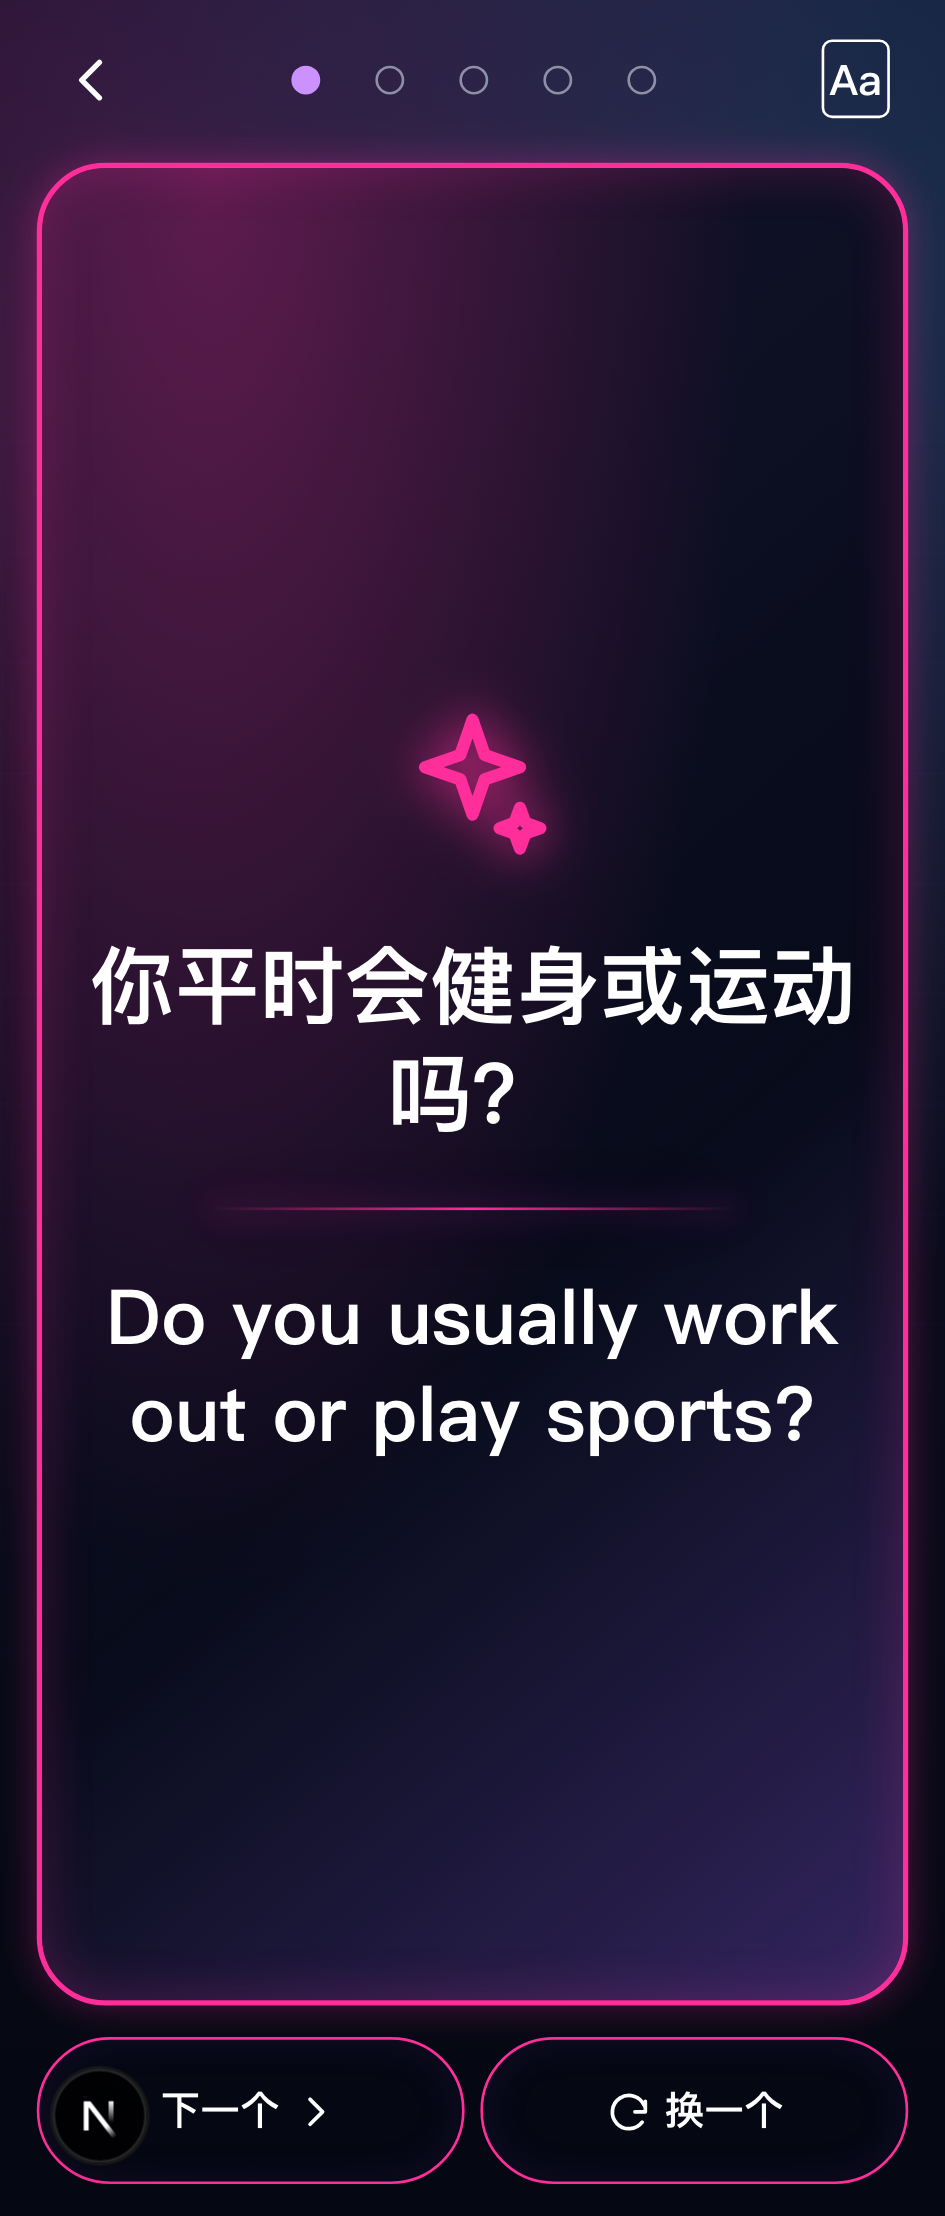
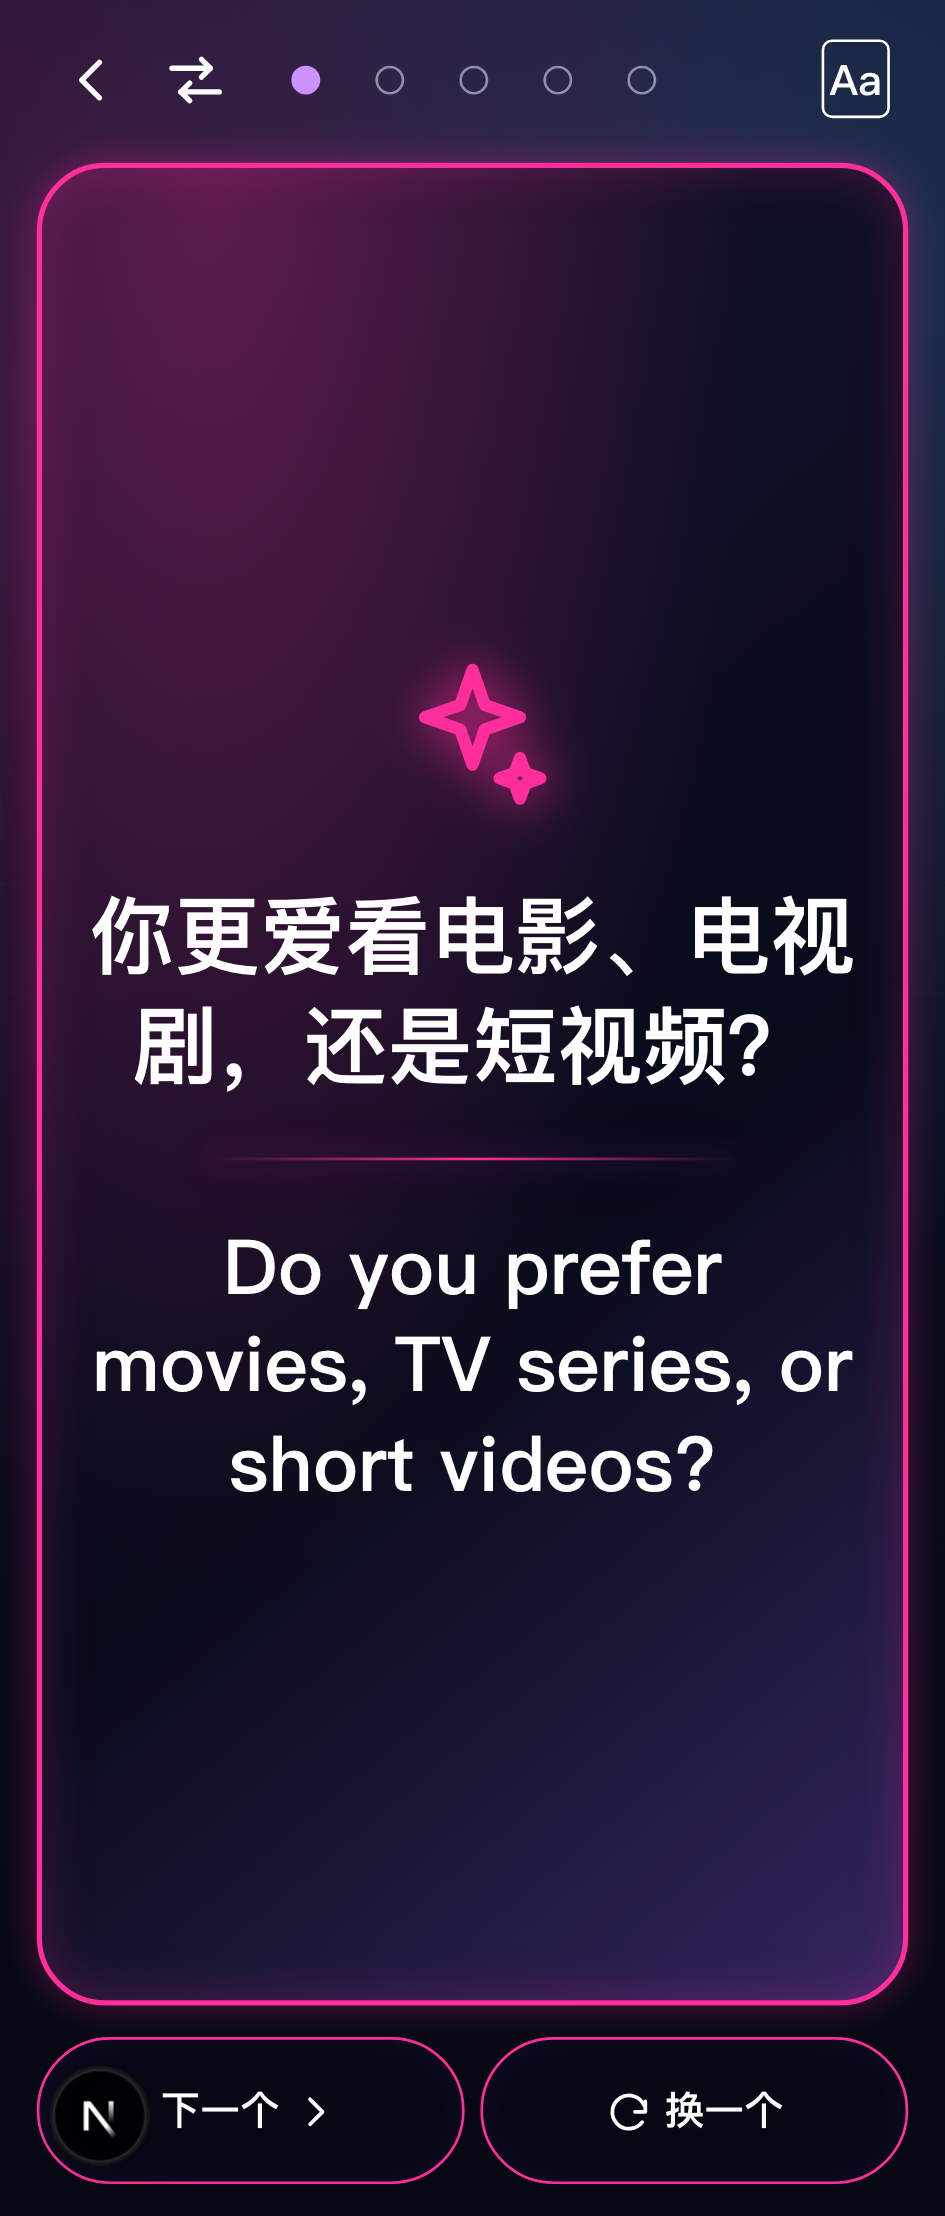
feat(punishment): 真心话⇄大冒险一键互切，并补齐一男一女大冒险去「站起来」
- 两个玩法页顶栏新增 ⇄ 双向箭头按钮，一键切到对面玩法、不回首页；各自记住自己的档位
- 顶栏改为左右等宽分组，保证五小圆点居中；新增 swap 图标
- 一男一女大冒险 L2 共 9 条与 L1-010 台词去掉「站起来」，保留 3 条鞠躬类
- 补充互切 e2e 用例并重跑截图基线

Changed region(s): [[0.0921, 0.2802, 0.9206, 0.5293], [0.0921, 0.5605, 0.8899, 0.685], [0.1841, 0.0311, 0.2148, 0.0623]]

diff --git a/content/punishment/couple.ts b/content/punishment/couple.ts
@@ -11,7 +11,7 @@ export const challenges: Challenge[] = [
     { id: "DA-DUO-L1-007", level: 1, zh: "大声说：“我宣布，今晚最需要被照顾的人是我！”", en: "Shout, “I hereby declare: I’m the one who needs the most looking after tonight!”", contentTags: [], timerSeconds: null },
     { id: "DA-DUO-L1-008", level: 1, zh: "大声说：“我不是菜，我是在给大家面子！”", en: "Shout, “I’m not bad at this—I’m just making everyone else look good!”", contentTags: [], timerSeconds: null },
     { id: "DA-DUO-L1-009", level: 1, zh: "大声说：“输的是我，气势不能输！”", en: "Shout, “I may have lost, but I’m not losing the swagger!”", contentTags: [], timerSeconds: null },
-    { id: "DA-DUO-L1-010", level: 1, zh: "大声说：“下一把再输，我还敢站起来！”", en: "Shout, “If I lose the next round too, I’ll still stand up and own it!”", contentTags: [], timerSeconds: null },
+    { id: "DA-DUO-L1-010", level: 1, zh: "大声说：“下一把再输，我还敢再来！”", en: "Shout, “If I lose the next round too, I’ll still go again!”", contentTags: [], timerSeconds: null },
     { id: "DA-DUO-L1-011", level: 1, zh: "对对方举杯，大声说：“以后罩着我！”然后自己喝一小口。", en: "Raise your glass to your opponent, and shout, “You’ve got my back from now on!” Then take a small sip.", contentTags: [], timerSeconds: null },
     { id: "DA-DUO-L1-012", level: 1, zh: "面对对方认真鞠躬 3 次，每次都说：“服了。”", en: "Face your opponent, bow three times, and say “You got me” each time.", contentTags: [], timerSeconds: null },
     { id: "DA-DUO-L1-013", level: 1, zh: "面对对方双手抱拳，大声说：“好汉饶命！”", en: "Face your opponent, clasp your hands, and shout, “Have mercy!”", contentTags: [], timerSeconds: null },
@@ -44,7 +44,7 @@ export const challenges: Challenge[] = [
     { id: "DA-DUO-L1-040", level: 1, zh: "先向左边点头，再向右边点头，说：“谢谢各位见证。”", en: "Nod once to the left and once to the right, and say, “Thanks, everyone, for witnessing this.”", contentTags: [], timerSeconds: null },
     { id: "DA-DUO-L1-041", level: 1, zh: "双手抱拳，朝对方说：“好汉，手下留情。”", en: "Clasp your hands toward your opponent, and say, “Have mercy on me.”", contentTags: [], timerSeconds: null },
     { id: "DA-DUO-L2-001", level: 2, zh: "对方端着你的杯子喂你喝一小口。", en: "Your opponent holds your glass and feeds you a small sip.", contentTags: [], timerSeconds: null },
-    { id: "DA-DUO-L2-002", level: 2, zh: "你站起来举杯，大声说：“以后罩着我！”对方和你碰杯，只有你喝一小口。", en: "Stand up with your glass and shout, “You’ve got my back from now on!” Clink glasses with your opponent; only you take a small sip.", contentTags: [], timerSeconds: null },
+    { id: "DA-DUO-L2-002", level: 2, zh: "你举杯，大声说：“以后罩着我！”对方和你碰杯，只有你喝一小口。", en: "Raise your glass and shout, “You’ve got my back from now on!” Clink glasses with your opponent; only you take a small sip.", contentTags: [], timerSeconds: null },
     { id: "DA-DUO-L2-003", level: 2, zh: "和对方击掌 3 次；你大声说：“这轮算你狠。”", en: "High-five your opponent three times, then shout, “You got me this round.”", contentTags: [], timerSeconds: null },
     { id: "DA-DUO-L2-004", level: 2, zh: "挽住对方的大臂，自己喝一小口。", en: "Hold onto your opponent’s upper arm and take a small sip.", contentTags: [], timerSeconds: null },
     { id: "DA-DUO-L2-005", level: 2, zh: "把一只手搭在对方肩膀上，自己喝一小口。", en: "Put one hand on your opponent’s shoulder and take a small sip.", contentTags: [], timerSeconds: null },
@@ -52,20 +52,20 @@ export const challenges: Challenge[] = [
     { id: "DA-DUO-L2-007", level: 2, zh: "和对方握手 3 秒，再自己喝一小口。", en: "Shake hands with your opponent for 3 seconds, then take a small sip.", contentTags: [], timerSeconds: 3 },
     { id: "DA-DUO-L2-008", level: 2, zh: "和对方击掌 3 次；你最后说：“下一轮再来。”", en: "High-five your opponent three times, then say, “Next round.”", contentTags: [], timerSeconds: null },
     { id: "DA-DUO-L2-009", level: 2, zh: "轻拍对方肩膀 3 下；你说：“下一轮等着。”", en: "Lightly pat your opponent’s shoulder three times and say, “Just wait till next round.”", contentTags: [], timerSeconds: null },
-    { id: "DA-DUO-L2-010", level: 2, zh: "你和对方一起举杯；你站起来大声说：“今晚你别装！”然后只有你喝一小口。", en: "Raise your glasses together. Stand up and shout, “No pretending tonight!” Then only you take a small sip.", contentTags: [], timerSeconds: null },
-    { id: "DA-DUO-L2-011", level: 2, zh: "你和对方一起举杯；你站起来大声说：“下一把轻点！”然后只有你喝一小口。", en: "Raise your glasses together. Stand up and shout, “Go easy on me next round!” Then only you take a small sip.", contentTags: [], timerSeconds: null },
+    { id: "DA-DUO-L2-010", level: 2, zh: "你和对方一起举杯；你大声说：“今晚你别装！”然后只有你喝一小口。", en: "Raise your glasses together and shout, “No pretending tonight!” Then only you take a small sip.", contentTags: [], timerSeconds: null },
+    { id: "DA-DUO-L2-011", level: 2, zh: "你和对方一起举杯；你大声说：“下一把轻点！”然后只有你喝一小口。", en: "Raise your glasses together and shout, “Go easy on me next round!” Then only you take a small sip.", contentTags: [], timerSeconds: null },
     { id: "DA-DUO-L2-012", level: 2, zh: "你和对方一起举杯；你大声说：“今天我先认罚！”然后只有你喝一小口。", en: "Raise your glasses together. Shout, “I’ll take the penalty this round!” Then only you take a small sip.", contentTags: [], timerSeconds: null },
     { id: "DA-DUO-L2-013", level: 2, zh: "你和对方一起举杯；你大声说：“这轮你赢了！”然后只有你喝一小口。", en: "Raise your glasses together. Shout, “You win this round!” Then only you take a small sip.", contentTags: [], timerSeconds: null },
     { id: "DA-DUO-L2-014", level: 2, zh: "你和对方一起举杯；你大声说：“下一轮继续收拾我！”然后只有你喝一小口。", en: "Raise your glasses together. Shout, “Come at me again next round!” Then only you take a small sip.", contentTags: [], timerSeconds: null },
     { id: "DA-DUO-L2-015", level: 2, zh: "你和对方一起举杯；你大声说：“我先给你助个兴！”然后只有你喝一小口。", en: "Raise your glasses together. Shout, “I’ll get the party going for you!” Then only you take a small sip.", contentTags: [], timerSeconds: null },
-    { id: "DA-DUO-L2-016", level: 2, zh: "对方向你竖大拇指，你站起来说：“这点面子我收下了！”", en: "Your opponent gives you a thumbs-up. Stand up and say, “I’ll take the support!”", contentTags: [], timerSeconds: null },
+    { id: "DA-DUO-L2-016", level: 2, zh: "对方向你竖大拇指，你说：“这点面子我收下了！”", en: "Your opponent gives you a thumbs-up, and you say, “I’ll take the support!”", contentTags: [], timerSeconds: null },
     { id: "DA-DUO-L2-017", level: 2, zh: "和对方碰拳一次，最后大声说：“下一轮见。”", en: "Fist-bump your opponent once, then shout, “See you next round!”", contentTags: [], timerSeconds: null },
     { id: "DA-DUO-L2-018", level: 2, zh: "和对方轻碰一次杯，最后自己喝一小口。", en: "Clink glasses lightly with your opponent once, then take a small sip.", contentTags: [], timerSeconds: null },
-    { id: "DA-DUO-L2-019", level: 2, zh: "对方指向你，你站起来大声说：“没错，输家就是我！”", en: "Your opponent points at you. Stand up and shout, “Yep, I’m the loser!”", contentTags: [], timerSeconds: null },
-    { id: "DA-DUO-L2-020", level: 2, zh: "你和对方一起举杯，你站起来说：“今晚我最需要被照顾！”", en: "Raise your glasses together. Stand up and say, “I’m the one who needs the most looking after tonight!”", contentTags: [], timerSeconds: null },
-    { id: "DA-DUO-L2-021", level: 2, zh: "对方拍桌一下，你站起来说：“我接受现实！”", en: "Your opponent taps the table once. Stand up and say, “I accept reality!”", contentTags: [], timerSeconds: null },
-    { id: "DA-DUO-L2-022", level: 2, zh: "对方向你竖大拇指，你站起来说：“这点安慰我收下了！”", en: "Your opponent gives you a thumbs-up. Stand up and say, “I’ll take the consolation!”", contentTags: [], timerSeconds: null },
-    { id: "DA-DUO-L2-023", level: 2, zh: "你和对方碰杯一次，你站起来说：“输归输，继续玩！”", en: "Clink glasses with your opponent once. Stand up and say, “I lost, but we keep playing!”", contentTags: [], timerSeconds: null },
+    { id: "DA-DUO-L2-019", level: 2, zh: "对方指向你，你大声说：“没错，输家就是我！”", en: "Your opponent points at you, and you shout, “Yep, I’m the loser!”", contentTags: [], timerSeconds: null },
+    { id: "DA-DUO-L2-020", level: 2, zh: "你和对方一起举杯，你说：“今晚我最需要被照顾！”", en: "Raise your glasses together and say, “I’m the one who needs the most looking after tonight!”", contentTags: [], timerSeconds: null },
+    { id: "DA-DUO-L2-021", level: 2, zh: "对方拍桌一下，你说：“我接受现实！”", en: "Your opponent taps the table once, and you say, “I accept reality!”", contentTags: [], timerSeconds: null },
+    { id: "DA-DUO-L2-022", level: 2, zh: "对方向你竖大拇指，你说：“这点安慰我收下了！”", en: "Your opponent gives you a thumbs-up, and you say, “I’ll take the consolation!”", contentTags: [], timerSeconds: null },
+    { id: "DA-DUO-L2-023", level: 2, zh: "你和对方碰杯一次，你说：“输归输，继续玩！”", en: "Clink glasses with your opponent once, and you say, “I lost, but we keep playing!”", contentTags: [], timerSeconds: null },
     { id: "DA-DUO-L3-001", level: 3, zh: "你和对方肩膀贴肩膀坐着，勾住小拇指，转头对视 10 秒，同时说：“你今晚还挺顺眼。”", en: "Sit shoulder-to-shoulder, hook pinkies, turn to face each other, and hold eye contact for 10 seconds while both saying, “You look pretty good tonight.”", contentTags: [], timerSeconds: 10 },
     { id: "DA-DUO-L3-002", level: 3, zh: "用双手给对方一侧上臂按摩 30 秒。", en: "Massage one of their upper arms with both hands for 30 seconds.", contentTags: [], timerSeconds: 30 },
     { id: "DA-DUO-L3-003", level: 3, zh: "面对面帮对方整理衣领 10 秒。", en: "Face them and straighten their collar for 10 seconds.", contentTags: [], timerSeconds: 10 },

diff --git a/app/punishment/play/page.tsx b/app/punishment/play/page.tsx
@@ -1,6 +1,7 @@
 "use client";
 
 import { useEffect, useMemo, useRef, useState } from "react";
+import { useRouter } from "next/navigation";
 import { NeonBackground } from "@/components/brand/NeonBackground";
 import { Button } from "@/components/ui/Button";
 import { Icon } from "@/components/ui/Icon";
@@ -25,6 +26,7 @@ import { play, unlockAudio } from "@/lib/audio";
 import { vibrate } from "@/lib/haptics";
 
 export default function PunishmentPlay() {
+  const router = useRouter();
   const { preferences, update, ready } = usePreferences();
   const cards = useMemo(() => loadChallenges(preferences.bank === "couple" ? coupleChallenges : normalChallenges), [preferences.bank]);
   const [session, setSession] = useState(newSession);
@@ -121,11 +123,16 @@ export default function PunishmentPlay() {
     <NeonBackground className="punishment-bg">
       <main className="punishment-screen">
         <header className="punishment-header">
-          <button aria-label="设置与盾牌" onClick={() => setSheet("settings")}><Icon name="settings" /></button>
+          <div className="punishment-header-side">
+            <button aria-label="设置与盾牌" onClick={() => setSheet("settings")}><Icon name="settings" /></button>
+            <button aria-label="切换到真心话" onClick={() => router.push("/truth/play")}><Icon name="swap" /></button>
+          </div>
           <LevelDots level={session.selectedLevel} onChange={selectedLevel => setSession(session =>
             session.currentCardId ? { ...session, selectedLevel } : drawCard({ ...session, selectedLevel }, cards, preferences.disabledTags)
           )} />
-          <button aria-label="切换语言" onClick={() => setSheet("language")}><span>Aa</span></button>
+          <div className="punishment-header-side is-end">
+            <button aria-label="切换语言" onClick={() => setSheet("language")}><span>Aa</span></button>
+          </div>
         </header>
 
         {card ? (

diff --git a/app/globals.css b/app/globals.css
@@ -825,6 +825,12 @@ textarea {
 .punishment-header > button { background: transparent; color: var(--color-text-primary); border: 0; width: 40px; height: 40px; display: grid; place-items: center; cursor: pointer; }
 .punishment-header svg { width: 27px; height: 27px; }
 .punishment-header > button span { border: 1px solid currentColor; border-radius: 4px; padding: 2px; font-weight: 600; }
+/* 左右两侧按钮分组：等宽 80px，保证中间五档圆点始终居中。 */
+.punishment-header-side { display: flex; align-items: center; width: 80px; }
+.punishment-header-side.is-end { justify-content: flex-end; }
+.punishment-header-side button { background: transparent; color: var(--color-text-primary); border: 0; width: 40px; height: 40px; display: grid; place-items: center; cursor: pointer; }
+.punishment-header-side svg { width: 27px; height: 27px; }
+.punishment-header-side button span { border: 1px solid currentColor; border-radius: 4px; padding: 2px; font-weight: 600; }
 .punishment-dots { display: flex; }
 .punishment-dots button { width: 32px; height: 40px; border: 0; background: none; display: grid; place-items: center; cursor: pointer; }
 .punishment-dots span { width: 11px; height: 11px; border: 1.5px solid var(--color-text-muted); border-radius: 50%; }

diff --git a/tests/e2e/truth.spec.ts b/tests/e2e/truth.spec.ts
@@ -65,6 +65,21 @@ test("language modal switches while keeping the card", async ({ page }) => {
   await expect(page.locator(".punishment-zh")).toBeVisible();
 });
 
+test("one-tap switch between truth and dare keeps each game's own level", async ({ page }) => {
+  await page.goto("/truth/play");
+  await expect(page.locator(".punishment-card")).toBeVisible();
+  await page.getByLabel("选择 4", { exact: true }).click();
+  await page.getByLabel("切换到大冒险", { exact: true }).click();
+  await expect(page).toHaveURL(/punishment\/play/);
+  await expect(page.locator(".punishment-card")).toBeVisible();
+  // 大冒险保留它自己的档位（首次进入默认 L1），不被真心话的 L4 带跑。
+  await expect(page.getByLabel("选择 1", { exact: true })).toHaveAttribute("aria-pressed", "true");
+  await page.getByLabel("切换到真心话", { exact: true }).click();
+  await expect(page).toHaveURL(/truth\/play/);
+  // 回到真心话仍保留刚才选的 L4。
+  await expect(page.getByLabel("选择 4", { exact: true })).toHaveAttribute("aria-pressed", "true");
+});
+
 for (const width of [360, 390, 1280])
   test(`layout and reachable footer at ${width}px`, async ({ page }) => {
     await page.setViewportSize({ width, height: 844 });

diff --git a/app/truth/play/page.tsx b/app/truth/play/page.tsx
@@ -65,9 +65,14 @@ export default function TruthPlay() {
     <NeonBackground className="punishment-bg">
       <main className="punishment-screen">
         <header className="punishment-header">
-          <button aria-label="返回设置" onClick={() => router.push("/truth")}><Icon name="back" /></button>
+          <div className="punishment-header-side">
+            <button aria-label="返回设置" onClick={() => router.push("/truth")}><Icon name="back" /></button>
+            <button aria-label="切换到大冒险" onClick={() => router.push("/punishment/play")}><Icon name="swap" /></button>
+          </div>
           <LevelDots level={session.selectedLevel} onChange={pickLevel} />
-          <button aria-label="切换语言" onClick={() => setSheet("language")}><span>Aa</span></button>
+          <div className="punishment-header-side is-end">
+            <button aria-label="切换语言" onClick={() => setSheet("language")}><span>Aa</span></button>
+          </div>
         </header>
 
         {card ? (

diff --git a/components/ui/Icon.tsx b/components/ui/Icon.tsx
@@ -14,6 +14,8 @@ const paths: Record<string, React.ReactNode> = {
   point: <><path d="M10 10.5V4.2a1.6 1.6 0 0 1 3.2 0v6.3"/><path d="M13.2 10.5V9a1.5 1.5 0 0 1 3 0v1.5"/><path d="M16.2 11.4V15a6 6 0 0 1-6 6H9a5 5 0 0 1-4.1-2.2l-2.6-3.7a1.6 1.6 0 0 1 2.3-2.2l2.4 1.9"/></>,
   chevron: <path d="m9 18 6-6-6-6"/>,
   back: <path d="m15 18-6-6 6-6"/>,
+  // 双向箭头：真心话 ⇄ 大冒险 一键互切。
+  swap: <><path d="M4 8h13"/><path d="m14 5 3 3-3 3"/><path d="M20 16H7"/><path d="m10 13-3 3 3 3"/></>,
   trash: <><path d="M4 7h16M9 7V4h6v3M7 7l1 14h8l1-14M10 11v6M14 11v6"/></>,
   eye: <><path d="M2 12s3.5-6 10-6 10 6 10 6-3.5 6-10 6S2 12 2 12Z"/><circle cx="12" cy="12" r="2.5"/></>,
   search: <><circle cx="11" cy="11" r="7"/><path d="m20 20-3.6-3.6"/></>,
